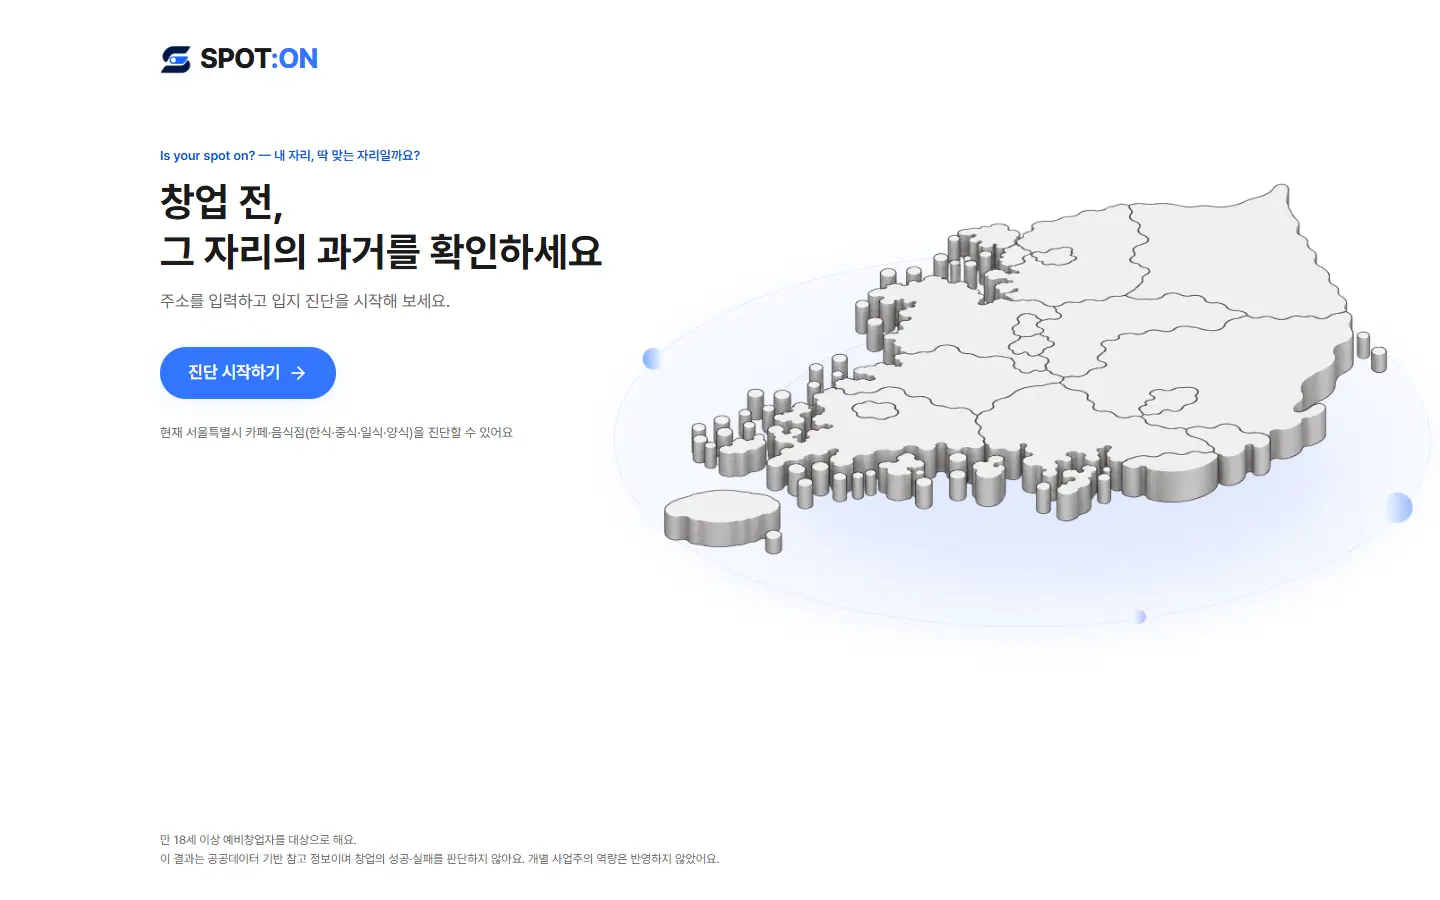
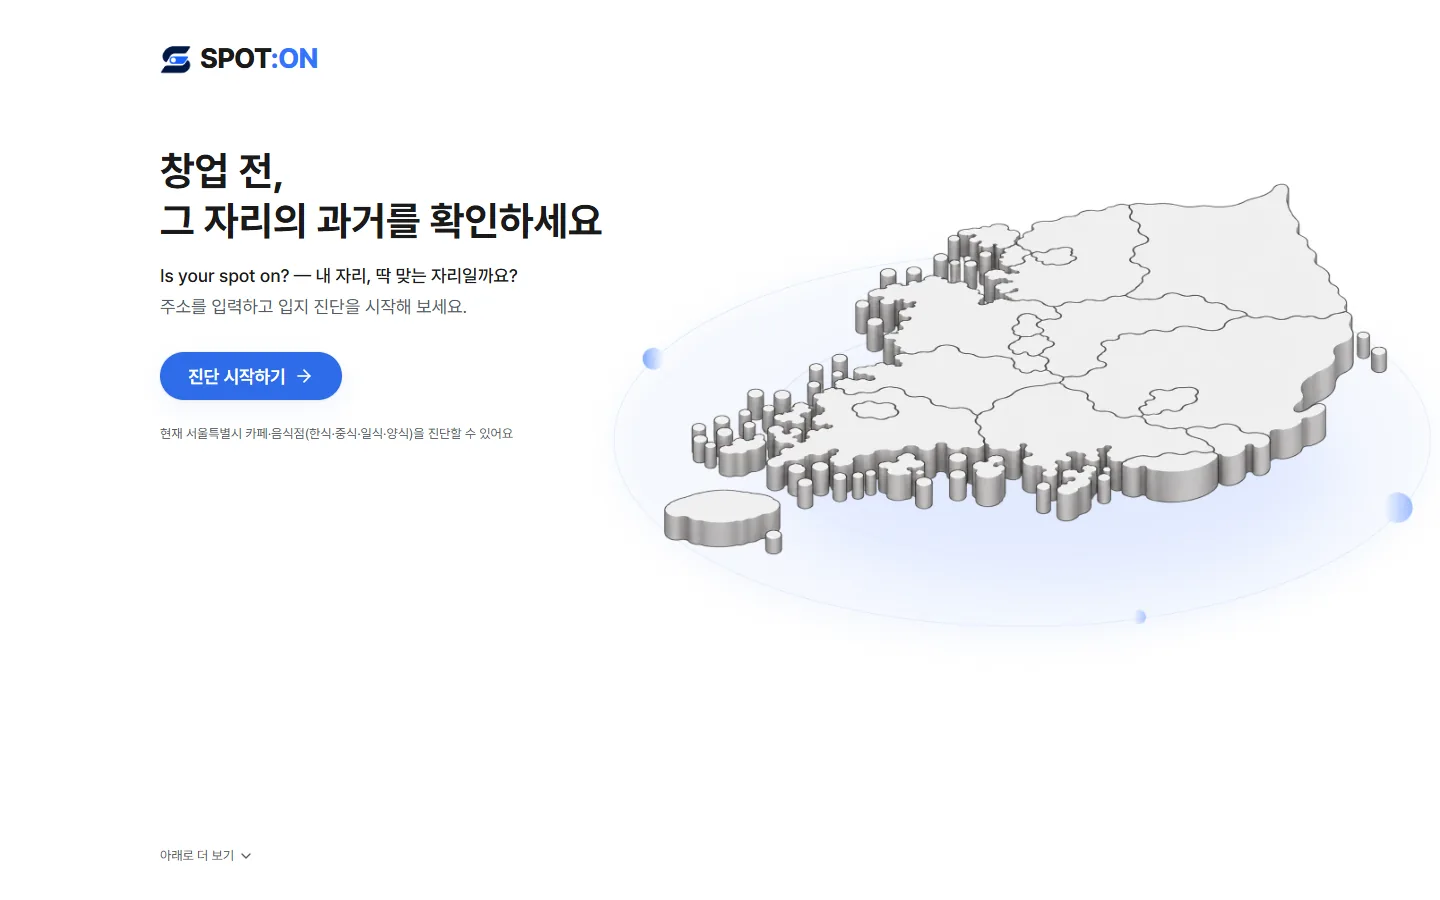
docs: README 캡처를 실제 데이터로 교체
랜딩·입력·STEP 02(지도)·STEP 03·AI 해석(실제 응답 4문단 + 계약 전 확인사항)·STEP 04를 실제 Render BE(서울 마포구 양화로 45 카페, 데이터 기준일 2026.11.08)로 1440×900 다시 찍음 (webp 37~146KB).
README 안내를 '목업 데이터' → '실제 공공데이터로 찍은 화면'으로, 랜딩·입력 설명을 지금 화면에 맞게

Changed region(s): [[0.0938, 0.1556, 0.4375, 0.4356], [0.0938, 0.9022, 0.5, 0.9644], [0.125, 0.4667, 0.3438, 0.4978]]

diff --git a/README.md b/README.md
@@ -44,12 +44,12 @@
 
 ## 화면 구성
 
-> 화면 예시는 **목업 데이터**(`VITE_USE_MOCK=true`, 시연용 가상 값)로 찍었어요. 데스크톱 1440×900 기준이에요. 시연 순서는 [docs/demo.md](docs/demo.md)에 있어요.
+> 화면 예시는 **실제 공공데이터**(데이터 기준일 2026.11.08, Render 무료 BE 연결)로 찍은 화면이에요. 주소는 공개 주소(서울 마포구 양화로 45, 카페), 데스크톱 1440×900 기준이에요. STEP 03의 서울시 공식 폐업률·창업위험도 카드는 BE #142가 배포되면 화면에서 빠져요. 시연 순서는 [docs/demo.md](docs/demo.md)에 있어요.
 
 | 화면 | 설명 |
 |---|---|
-| ![랜딩](docs/images/landing.webp) | **랜딩** — 슬로건과 진단 시작 버튼, 만 18세 이상 대상·참고용 정보 안내 |
-| ![주소·업종 입력](docs/images/input.webp) | **STEP 01 주소·업종 입력** — 주소 검색(후보 선택)과 카페/음식점 선택 |
+| ![랜딩](docs/images/landing.webp) | **랜딩** — 첫 화면 제목·슬로건과 진단 시작 버튼, 진단할 수 있는 지역·업종 안내 (아래로 소개·이용 대상·출처) |
+| ![주소·업종 입력](docs/images/input.webp) | **STEP 01 주소·업종 입력** — 주소 검색(후보가 여러 개면 목록에서 선택)과 카페/음식점 선택 |
 | ![입지 정보 분석](docs/images/analysis.webp) | **STEP 02 입지 정보 분석** — 반경 안 같은 업종 점포를 카카오 지도에 영업 중/폐업으로 구분해 표시, 아래에서 조건·시점을 바꿔 조회 |
 | ![종합 진단 결과](docs/images/summary.webp) | **STEP 03 종합 진단 결과** — 상권 판정, 서울시 공식 지표와 Spot:ON 참고지표를 영역을 나눠 표시 (점수·등급 없음) |
 | ![AI 해석](docs/images/ai.webp) | **AI 해석** — "AI 해석 보기"를 누를 때만 생성. 서버가 검증한 네 문단 본문 + 계약 전 확인사항, 확인한·빠진 자료는 제목 옆 ⓘ |
